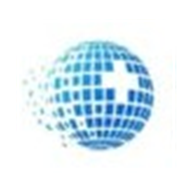
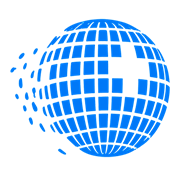
cambios nuevos

diff --git a/Pages/Storefront.razor.css b/Pages/Storefront.razor.css
@@ -82,9 +82,8 @@
     gap: 12px;
     min-height: 320px;
     padding: 28px;
-    background:
-        linear-gradient(180deg, rgba(255, 255, 255, 0.15), white 74%),
-        url("https://images.unsplash.com/photo-1576091160399-112ba8d25d1d?auto=format&fit=crop&q=80&w=800") center/cover;
+    background: linear-gradient(180deg, rgba(255, 255, 255, 0.15), white 74%), 
+        url("assets/lnw1.png") center/cover;
 }
 
 .store-hero-card strong {
@@ -101,10 +100,79 @@
     margin: 18px 0;
     padding: 14px 18px;
     border-radius: 18px;
-    background: #dbeafe;
-    color: #1e40af;
+    background: linear-gradient(167deg, #00ff87 0%, #94b8b6e6 100%);
+    color: #000000;
     font-weight: 900;
     text-align: center;
+}
+
+.order-steps {
+    margin: 18px 0;
+    padding: clamp(24px, 4vw, 38px);
+    border: 1px solid var(--line);
+    border-radius: 28px;
+    background: white;
+    box-shadow: 0 14px 40px rgba(15, 23, 42, 0.06);
+}
+
+.order-steps h2 {
+    margin: 0 0 26px;
+    color: #111827;
+    font-size: clamp(1.55rem, 3vw, 2.15rem);
+    font-weight: 900;
+    letter-spacing: 0;
+    text-align: center;
+}
+
+.steps-grid {
+    display: grid;
+    grid-template-columns: repeat(4, minmax(0, 1fr));
+    gap: clamp(18px, 3vw, 34px);
+}
+
+.step-card {
+    min-width: 0;
+}
+
+.step-card h3 {
+    display: flex;
+    align-items: flex-start;
+    gap: 8px;
+    margin: 0 0 14px;
+    color: #111827;
+    font-size: clamp(1.05rem, 1.8vw, 1.28rem);
+    font-weight: 900;
+    line-height: 1.2;
+}
+
+    .step-card h3 span {
+        display: inline-grid;
+        place-items: center;
+        flex: 0 0 auto;
+        width: 20px;
+        height: 20px;
+        border-radius: 4px;
+        background: #10b981;
+        color: white;
+        font-size: 0.84rem;
+        font-weight: 900;
+        line-height: 1;
+    }
+
+.step-card p {
+    margin: 0;
+    color: #697386;
+    font-size: 0.95rem;
+    font-weight: 700;
+    line-height: 1.65;
+}
+
+.step-card strong {
+    display: block;
+    margin-top: 8px;
+    color: #4b5563;
+    font-size: 0.86rem;
+    font-weight: 900;
 }
 
 .store-products {
@@ -148,6 +216,10 @@
     .store-grid {
         grid-template-columns: repeat(2, minmax(0, 1fr));
     }
+
+    .steps-grid {
+        grid-template-columns: repeat(2, minmax(0, 1fr));
+    }
 }
 
 @media (max-width: 520px) {
@@ -174,7 +246,22 @@
         grid-template-columns: 1fr;
     }
 
-    .mobile-tabs {
+    .order-steps {
+        border-radius: 22px;
+        padding: 22px;
+    }
+
+    .order-steps h2 {
+        margin-bottom: 20px;
+        text-align: left;
+    }
+
+    .steps-grid {
+        grid-template-columns: 1fr;
+        gap: 20px;
+    }
+
+/*    .mobile-tabs {
         position: fixed;
         right: 0;
         bottom: 0;
@@ -186,7 +273,7 @@
         border-radius: 22px 22px 0 0;
         background: white;
         box-shadow: 0 -8px 24px rgba(15, 23, 42, 0.06);
-    }
+    }*/
 
     .tab-item {
         display: grid;

diff --git a/wwwroot/js/theme.js b/wwwroot/js/theme.js
@@ -1,0 +1,34 @@
+window.saludVidaTheme = {
+    apply: function (primaryColor) {
+        if (!primaryColor) {
+            return;
+        }
+
+        const darkColor = window.saludVidaTheme.darken(primaryColor, 18);
+        document.documentElement.style.setProperty("--brand", primaryColor);
+        document.documentElement.style.setProperty("--brand-dark", darkColor);
+        document.documentElement.style.setProperty("--color-marca", primaryColor);
+
+        const themeMeta = document.querySelector('meta[name="theme-color"]');
+        if (themeMeta) {
+            themeMeta.setAttribute("content", primaryColor);
+        }
+    },
+    darken: function (hex, amount) {
+        const normalized = hex.replace("#", "");
+        if (normalized.length !== 6) {
+            return hex;
+        }
+
+        const value = parseInt(normalized, 16);
+        let r = (value >> 16) - amount;
+        let g = ((value >> 8) & 0x00ff) - amount;
+        let b = (value & 0x0000ff) - amount;
+
+        r = Math.max(0, Math.min(255, r));
+        g = Math.max(0, Math.min(255, g));
+        b = Math.max(0, Math.min(255, b));
+
+        return "#" + ((1 << 24) + (r << 16) + (g << 8) + b).toString(16).slice(1);
+    }
+};

diff --git a/Shared/StoreHeader.razor.css b/Shared/StoreHeader.razor.css
@@ -27,10 +27,10 @@
     display: inline-flex;
     align-items: center;
     justify-content: center;
-    width: 66px;
+    /*    width: 66px;*/
     height: 66px;
     padding: 4px;
-    border: 1px solid var(--line);
+    border: 1px solid #ffffff;
     border-radius: 0;
     background: white;
     box-shadow: 0 6px 18px rgba(15, 23, 42, 0.08);
@@ -91,7 +91,7 @@
     }
 
     .hidden-admin-trigger {
-        width: 65px;
+ 
         height: 65px;
     }
 

diff --git a/wwwroot/index.html b/wwwroot/index.html
@@ -17,10 +17,11 @@
     <div id="app">
         <div class="loading-shell">
             <img src="assets/app-icon-192.png" alt="Salud y Vida Internacional" />
-            <p>Cargando aplicacion...</p>
+            <p>Cargando</p>
         </div>
     </div>
     <script src="_framework/blazor.webassembly.js"></script>
+    <script src="js/theme.js"></script>
     <script>navigator.serviceWorker?.register("service-worker.js");</script>
 </body>
 </html>

diff --git a/Pages/Customize.razor.css b/Pages/Customize.razor.css
@@ -20,6 +20,15 @@
     box-shadow: 0 8px 30px rgba(15, 23, 42, 0.04);
 }
 
+.success-message {
+    margin-bottom: 16px;
+    padding: 13px 16px;
+    border-radius: 16px;
+    background: #dcfce7;
+    color: #047857;
+    font-weight: 900;
+}
+
 .settings-card {
     display: grid;
     gap: 22px;

diff --git a/Models/AppearanceSettings.cs b/Models/AppearanceSettings.cs
@@ -4,7 +4,7 @@ public sealed class AppearanceSettings
 {
     public string PrimaryColor { get; set; } = "#10b981";
     public string BusinessName { get; set; } = "Salud y Vida Internacional";
-    public string Slogan { get; set; } = "Productos de salud y bienestar para tu familia";
-    public string BannerText { get; set; } = "Todos tus pedidos incluyen ENVIO GRATIS";
-    public string LogoUrl { get; set; } = "assets/logo-salud-vida.jpeg";
+    public string Slogan { get; set; } = "Envios discretos y seguros sin salir de casa";
+    public string BannerText { get; set; } = "Todos tus pedidos incluyen Envio Gratis";
+    public string LogoUrl { get; set; } = "assets/lnw3.png";
 }

diff --git a/Services/ThemeService.cs b/Services/ThemeService.cs
@@ -1,0 +1,16 @@
+using Microsoft.JSInterop;
+
+namespace SaludVidaPwa.Services;
+
+public sealed class ThemeService(IJSRuntime jsRuntime)
+{
+    public async Task ApplyAsync(string primaryColor)
+    {
+        if (string.IsNullOrWhiteSpace(primaryColor))
+        {
+            return;
+        }
+
+        await jsRuntime.InvokeVoidAsync("saludVidaTheme.apply", primaryColor);
+    }
+}

diff --git a/Program.cs b/Program.cs
@@ -12,5 +12,6 @@ builder.Services.AddScoped<IProductService, ProductService>();
 builder.Services.AddScoped<IAppearanceService, AppearanceService>();
 builder.Services.AddScoped<CartService>();
 builder.Services.AddScoped<AuthService>();
+builder.Services.AddScoped<ThemeService>();
 
 await builder.Build().RunAsync();
